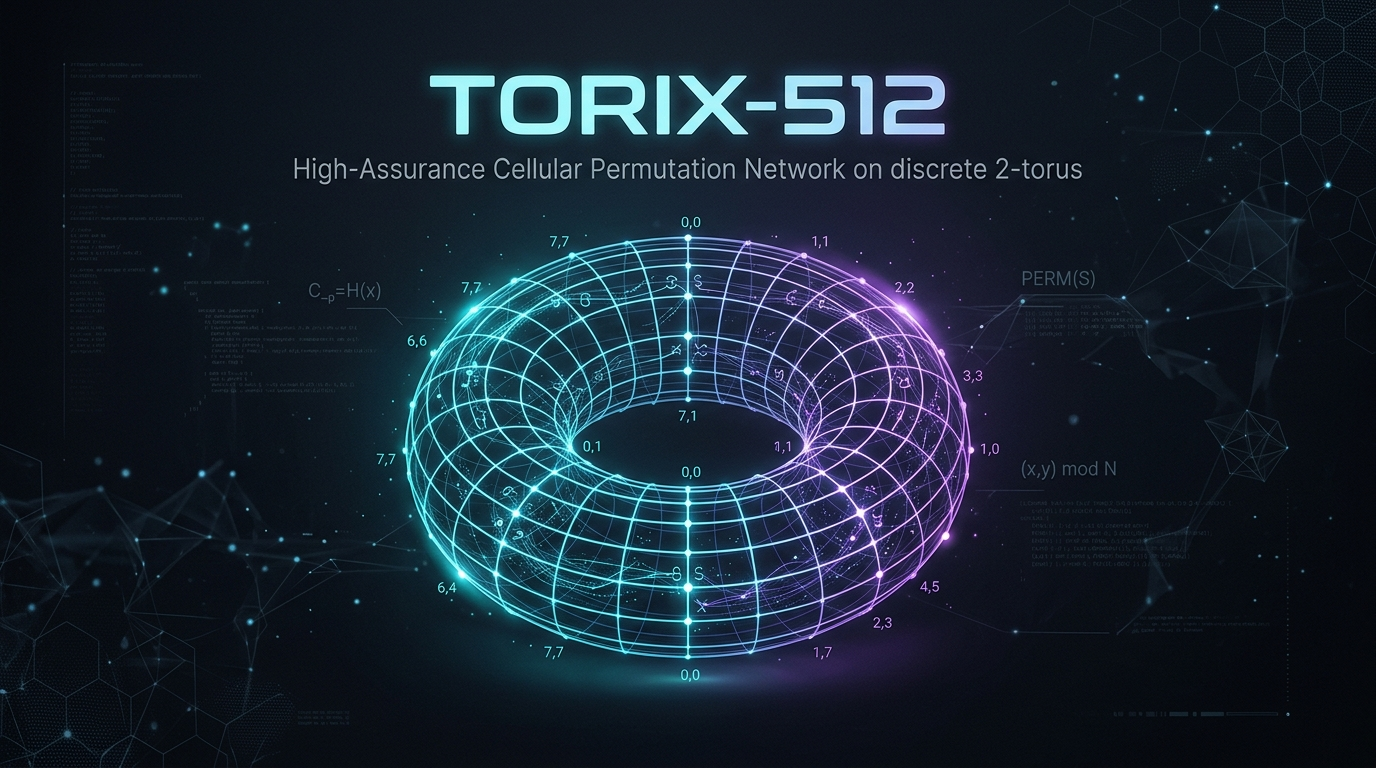
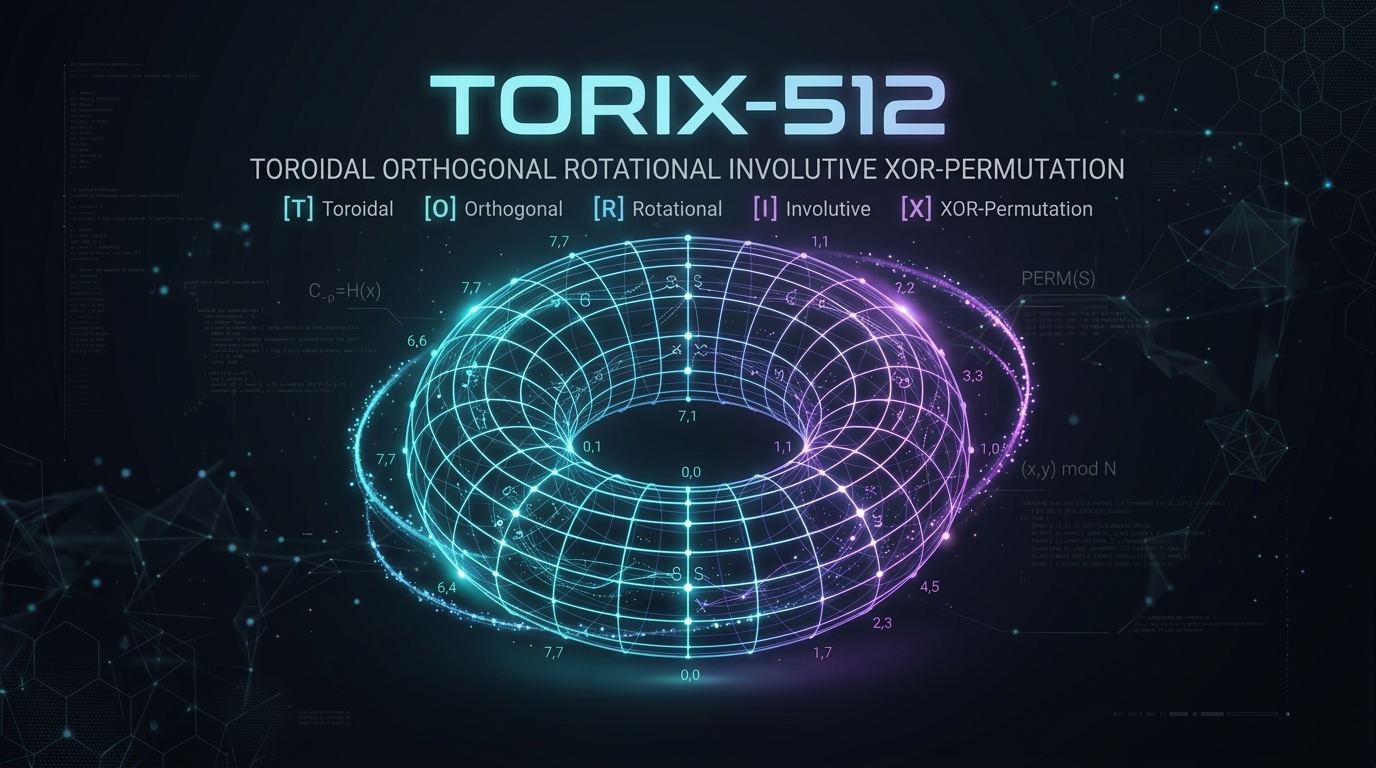
docs: establish official TORIX acronym across spec and codebases

diff --git a/python/h512.py b/python/h512.py
@@ -1,6 +1,13 @@
 """
-Project H-512 Reference Implementation (Phase 2 Prototype)
-==========================================================
+Project H-512 / TORIX Reference Implementation
+==============================================
+TORIX: Toroidal Orthogonal Rotational Involutive XOR-Permutation
+- T: Toroidal 8x8 discrete 2-torus state geometry
+- O: Orthogonal cyclic message dispersal
+- R: Rotational 4-neighbor context coupling
+- I: Involutive GF(2^8) circulant MDS hyper-diffusion
+- X: XOR-Permutation with Miyaguchi-Preneel feedforward
+
 Architectural Specifications:
 - 512-bit internal state modeled as an 8x8 matrix of 8-bit octets on a 2D torus.
 - Layer 1: NIST 10*1 padding with 64-bit length and 8-bit domain separation tag.

diff --git a/src/h512.h b/src/h512.h
@@ -1,6 +1,13 @@
 /**
  * Project H-512 / TORIX-512 Unified Cryptographic Engine Header
  * =============================================================
+ * TORIX: Toroidal Orthogonal Rotational Involutive XOR-Permutation
+ * - T: Toroidal 8x8 discrete 2-torus state geometry
+ * - O: Orthogonal cyclic message dispersal
+ * - R: Rotational 4-neighbor context coupling
+ * - I: Involutive GF(2^8) circulant MDS hyper-diffusion
+ * - X: XOR-Permutation with Miyaguchi-Preneel feedforward
+ *
  * Zero-allocation, high-performance cryptographic primitive suite:
  * - TORIX-512 / TORIX-256 HAIFA Cryptographic Hash Functions
  * - Inter-Chunk 4-Way AVX2 SIMD Vectorization (3+ GB/s Leaf Engine)

diff --git a/python/torix.py b/python/torix.py
@@ -1,6 +1,13 @@
 """
 TORIX Master Python SDK (Unified Cryptographic Toolkit)
 =======================================================
+TORIX: Toroidal Orthogonal Rotational Involutive XOR-Permutation
+- T: Toroidal 8x8 discrete 2-torus state geometry
+- O: Orthogonal cyclic message dispersal
+- R: Rotational 4-neighbor context coupling
+- I: Involutive GF(2^8) circulant MDS hyper-diffusion
+- X: XOR-Permutation with Miyaguchi-Preneel feedforward
+
 A developer-friendly, all-in-one cryptographic interface providing:
 1. Hashlib-compatible API for Hashing (like hashlib.sha256 / sha512)
 2. One-line Authenticated Encryption & Decryption (AEAD)

diff --git a/docs/TORIX_API_AND_SYNTAX_MANUAL.md b/docs/TORIX_API_AND_SYNTAX_MANUAL.md
@@ -1,7 +1,8 @@
 # TORIX-512 / TORIX Cryptographic Suite: Comprehensive API & Syntax Manual
 **Document Version:** 2.1 (Post-Upgrade A & Step 2 FIPS Certification)  
 **Standard Compliance:** NIST FIPS 140-3 Power-On Self-Test (POST), RFC 5869 (HKDF), HAIFA Counter Framework, BLAKE3 Parallel Tree Topologies, Constant-Time Side-Channel Invariance  
-**Language Interfaces:** C99 / AVX2 Native Engine, Command-Line Interface (CLI), Python Reference & Extended Modes
+**Language Interfaces:** C99 / AVX2 Native Engine, Command-Line Interface (CLI), Python Reference & Extended Modes  
+**Official Designation:** **T.O.R.I.X.** (**T**oroidal **O**rthogonal **R**otational **I**nvolutive **X**OR-Permutation)
 
 ---
 
@@ -53,6 +54,13 @@
 ## 1. Architectural Design, Structure & Core Engine
 
 ### Core Cryptographic Design Philosophy
+**TORIX** is an acronym reflecting its foundational structural and algebraic primitives:
+* **T — Toroidal:** $8 \times 8$ discrete 2-torus state geometry ($\mathbb{T}^2$) with periodic cyclic boundary wrapping.
+* **O — Orthogonal:** Orthogonal row-by-row cyclic message dispersal ($M_{\text{disp}}$).
+* **R — Rotational:** 4-neighbor cyclic rotational context coupling ($\alpha, \beta, \gamma, \delta$).
+* **I — Involutive:** Self-inverting $\mathbb{F}_{2^8}$ circulant MDS hyper-diffusion matrix $\text{circ}(02, 03, 01, 01)$.
+* **X — XOR-Permutation:** Miyaguchi-Preneel $\oplus$ feedforward and cellular round permutations.
+
 TORIX-512 decouples its **immutable mathematical core** from its **high-throughput execution and certification infrastructure**:
 
 ```mermaid

diff --git a/README.md b/README.md
@@ -26,6 +26,14 @@
 
 ---
 
+### 🌐 Official Designation & Acronym
+> **T.O.R.I.X.** = **T**oroidal **O**rthogonal **R**otational **I**nvolutive **X**OR-Permutation  
+> * **T — Toroidal:** $8 \times 8$ discrete 2-torus state geometry ($\mathbb{T}^2$) with cyclic periodic boundary wrapping.
+> * **O — Orthogonal:** Orthogonal row-by-row cyclic message dispersal ($M_{\text{disp}}$).
+> * **R — Rotational:** 4-neighbor cyclic rotational context coupling ($\alpha, \beta, \gamma, \delta$).
+> * **I — Involutive:** Self-inverting $\mathbb{F}_{2^8}$ circulant MDS hyper-diffusion matrix $\text{circ}(02, 03, 01, 01)$.
+> * **X — XOR-Permutation:** Miyaguchi-Preneel $\oplus$ feedforward and cellular round permutations.
+
 **TORIX-512** is an experimental high-assurance cryptographic suite built upon a **512-bit Toroidal Cellular Permutation Network** on the discrete 2-torus ($8 \times 8$ periodic grid). It provides high-throughput cryptographic hashing, single-pass Authenticated Encryption with Associated Data (AEAD), 4-way AVX2 SIMD parallel Merkle tree hashing, and an arbitrary-length Post-Quantum Duplex Sponge.
 
 ---
